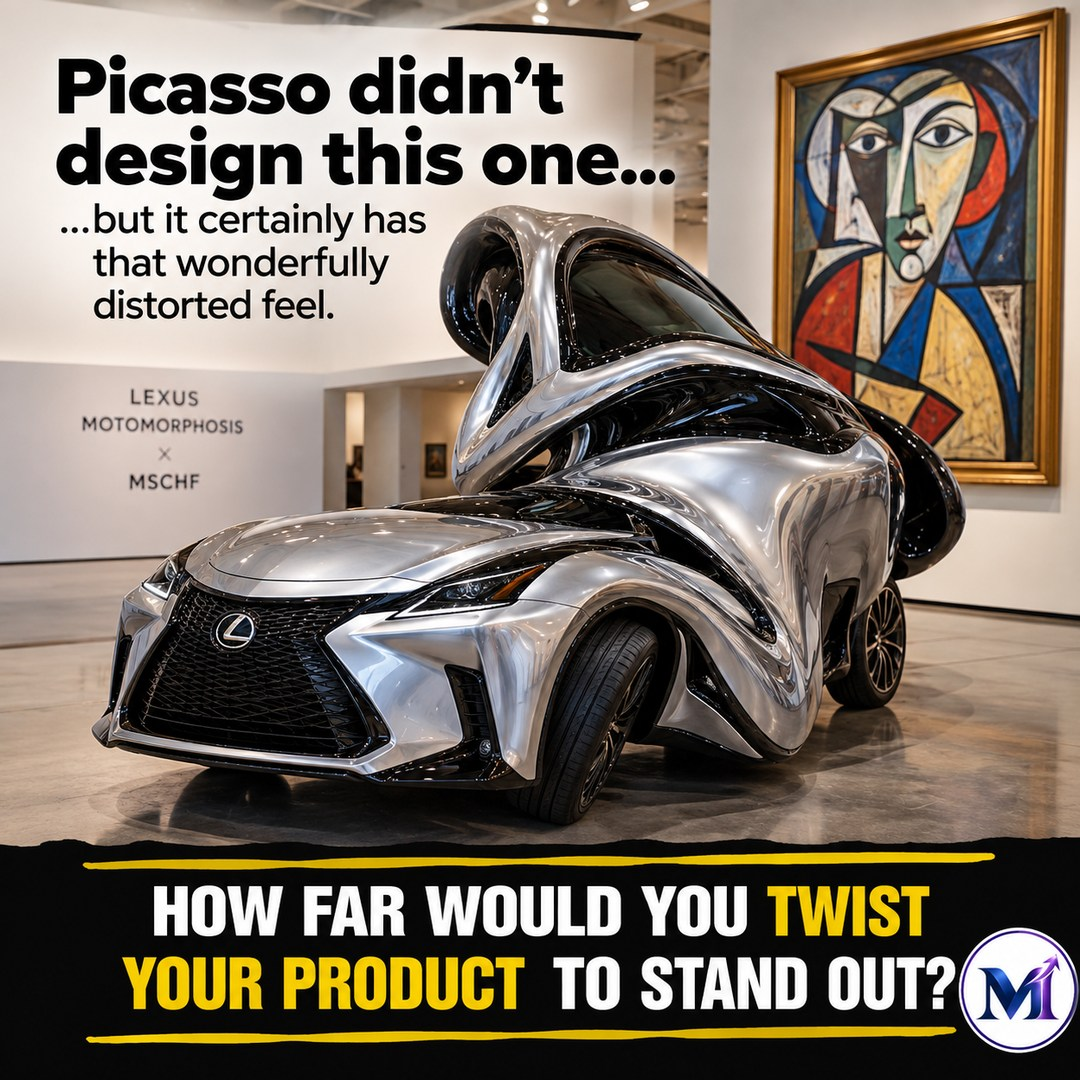
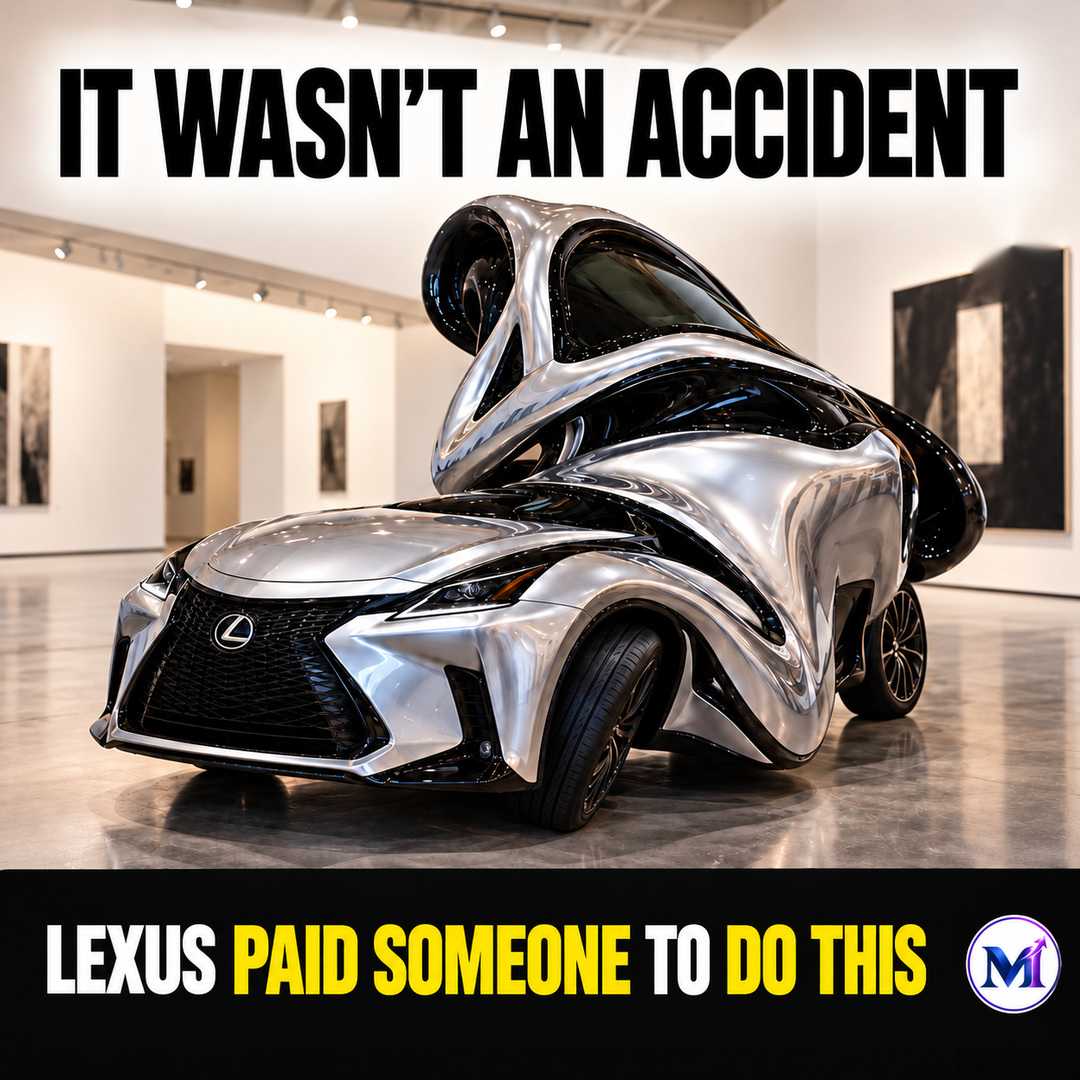
Publish approved Lexus artwork and unified Motomorphosis commentary

diff --git a/src/data/funny-bizz.ts b/src/data/funny-bizz.ts
@@ -20,7 +20,17 @@ export type FunnyBizzItem = {
   destinationUrl?: string;
   ctaLabel?: string;
   advertiser?: string;
+  seoTitle?: string;
+  metaDescription?: string;
+  sources?: readonly { label: string; url: string }[];
+  illustrationDisclosure?: string;
 };
+
+const lexusCommentary = `Lexus deliberately commissioned Brooklyn-based art collective MSCHF to transform two electrified vehicles into extraordinary sculptures for its September 2026 Motomorphosis exhibition in New York. The twisted Lexus RX 450h+ was one of them.
+
+<strong>Why?</strong> Lexus wanted to take the automobile beyond its familiar form, demonstrating imagination, movement and transformation. By displaying the distorted sculptures alongside their original production vehicles, Lexus created a striking contrast between conventional engineering and artistic possibility.
+
+<strong>The business insight:</strong> Not every marketing investment needs to generate immediate sales. Unusual, memorable experiences can strengthen brand recall, distinctiveness and long-term consumer preference. <strong>In crowded markets, the brands that stand out and stay in people's minds have an advantage when purchasing decisions are eventually made.</strong>`;
 
 export const funnyBizzItems: readonly FunnyBizzItem[] = [
   {
@@ -71,22 +81,25 @@ Its June 2026 report lists <strong>31 reachable countries and over 440 financial
   "ctaLabel": "Read the Article"
 },
   {
-  "id": "lexus-motomorphosis",
-  commentaryTitle: 'Lexus × MSCHF: Unconventional Marketing?',
-  commentaryCopyHtml: `Lexus commissioned Brooklyn art collective MSCHF to transform two electrified cars into MOTOMORPHOSIS sculptures: one twisted, the other looped into a circle.
-
-The unexpected forms invite attention and associate the brand with imagination and transformation. Such creative collaborations can help a familiar product stand apart in crowded markets.
-
-For business owners, the lesson extends beyond luxury cars. Unconventional marketing can be a deliberate strategy to <strong>build brand awareness</strong>, differentiate a business and remain memorable. Its value need not be measured in immediate sales; strengthening brand recognition and positioning can itself be a <strong>worthwhile long-term investment.</strong>`,
-    archiveSummary: "Lexus and MSCHF’s twisted vehicle challenges conventions about product design and brand attention. Their MOTOMORPHOSIS project opens a conversation about electrification, imagination and how far a brand will go to stand out.",
-  "publishedAt": "2026-10-04",
-  "sliderCategory": "Funny",
-  "category": "Brands & Marketing",
-  "title": "How Far Would You Twist Your Product?",
-  "image": "/images/lexus-mschf-motomorphosis-twisted-car-marketing.jpg",
-  "alt": "Twisted Lexus art car created by MSCHF for the Lexus MOTOMORPHOSIS project, illustrating how brands can use unexpected product design to attract attention.",
-  "copy": "Lexus and Brooklyn art collective MSCHF turned an electrified vehicle into something almost unrecognisable for MOTOMORPHOSIS. The aim was a fresh conversation about electrification and transformation. The marketing question: how far would you twist convention to get people talking?"
-},
+    id: 'lexus-motomorphosis',
+    commentaryTitle: 'How Lexus Turned a Distorted Car into a Publicity Stunt',
+    title: 'How Lexus Turned a Distorted Car into a Publicity Stunt',
+    seoTitle: 'Lexus Motomorphosis: The Strategy Behind the Twisted Car',
+    metaDescription: 'Why did Lexus commission MSCHF to distort its vehicles? Explore the Motomorphosis art collaboration and the marketing strategy behind it.',
+    commentaryCopyHtml: lexusCommentary,
+    copy: lexusCommentary.replace(/<[^>]*>/g, ''),
+    archiveSummary: 'Lexus commissioned art collective MSCHF to transform its electrified vehicles into bizarre sculptures for a New York exhibition. The unusual collaboration raises an intriguing question about creativity, brand differentiation and commercial value.',
+    publishedAt: '2026-10-04',
+    sliderCategory: 'Funny',
+    category: 'Business Analysis & Strategy',
+    image: '/images/lexus-mschf-motomorphosis-twisted-car-marketing.jpg',
+    alt: "Silver Lexus RX 450h+ transformed into a dramatically twisted sculpture in a gallery, with the headlines 'IT WASN’T AN ACCIDENT' and 'LEXUS PAID SOMEONE TO DO THIS', and the Murtaza Insights monogram.",
+    sources: [
+      { label: 'Lexus exhibition announcement', url: 'https://pressroom.lexus.com/mschf-turns-two-lexus-electrified-vehicles-into-sculpture-for-motomorphosis/' },
+      { label: 'Behind the sculptures', url: 'https://pressroom.lexus.com/bending-the-rules-how-lexus-and-mschf-turned-the-impossible-into-physical-reality/' }
+    ],
+    illustrationDisclosure: 'AI-assisted editorial illustration; not an unaltered exhibition photograph.'
+  },
 
   {
     id: 'simbisa-customers-spend-less',

diff --git a/src/styles/biz-buzz-action-footer.css b/src/styles/biz-buzz-action-footer.css
@@ -72,3 +72,11 @@
  #content .funny-share-landing > h1 { order:2; font-size:25px; line-height:1.2; text-align:left; margin:0 0 12px; }
  #content .funny-share-landing > p:not(.eyebrow):not(:has(.button)) { text-align:left; }
 }
+
+/* Approved Lexus publication: readable locked copy and inline attribution. */
+#content .meme-references, #content .meme-illustration-note { font:12px/1.35 Inter,system-ui,sans-serif; margin-top:6px; text-align:left; }
+#content .meme-references a { font:inherit; color:var(--purple,#7447d7); text-decoration:underline; text-underline-offset:.15em; }
+#content .funny-commentary-panel[data-commentary-id="lexus-motomorphosis"] .lighter-copy > h2 { white-space:normal; overflow-wrap:break-word; }
+#content .funny-commentary-panel[data-commentary-id="lexus-motomorphosis"] .funny-commentary-text > p { margin:0 0 8px; }
+#content .lexus-detail-copy { text-align:left; }
+#content .lexus-detail > h1 { text-align:left; }
